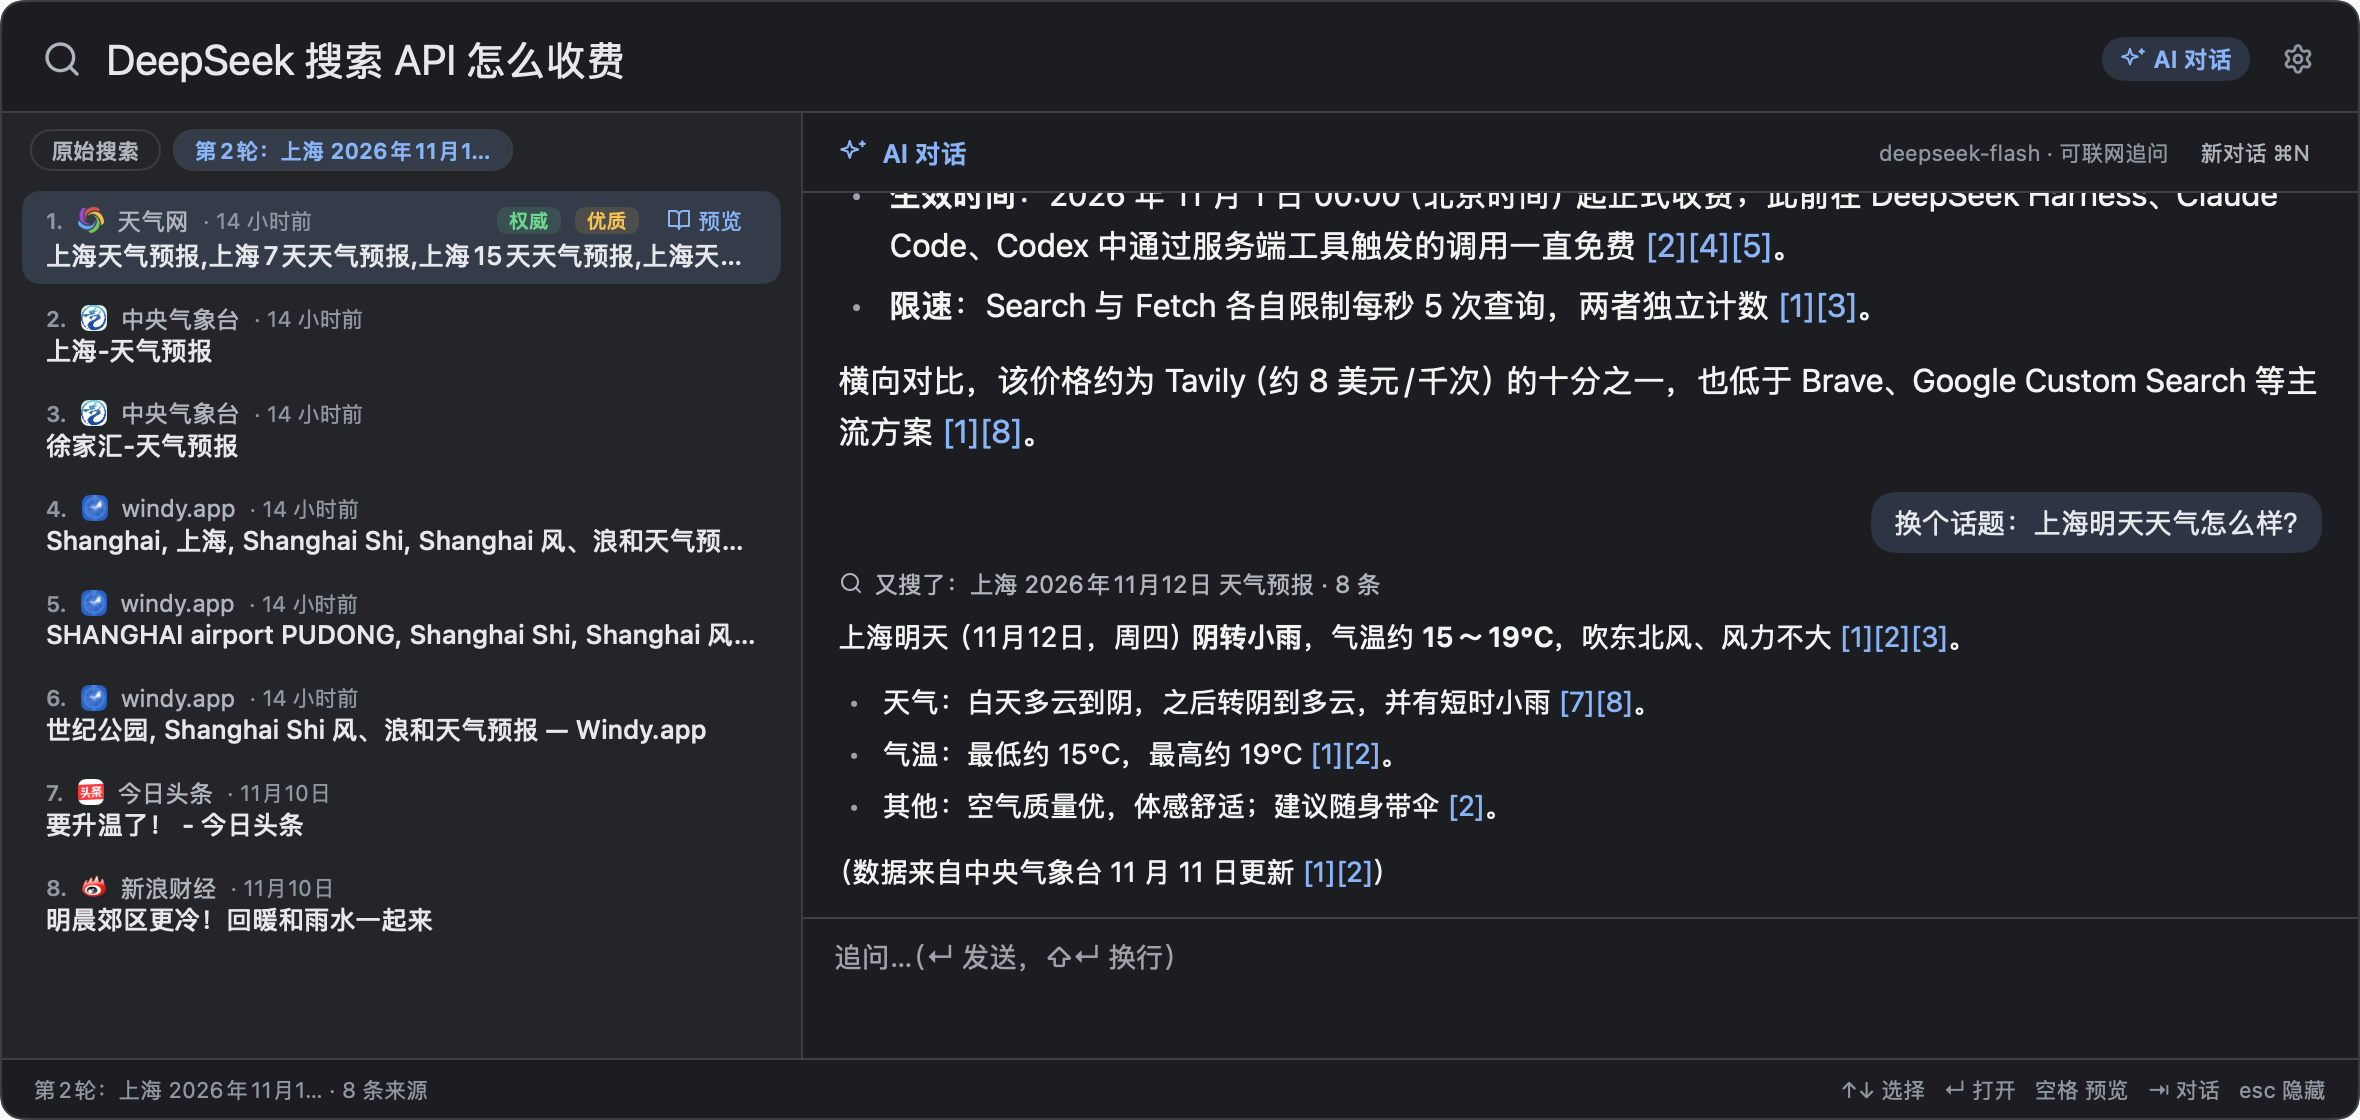
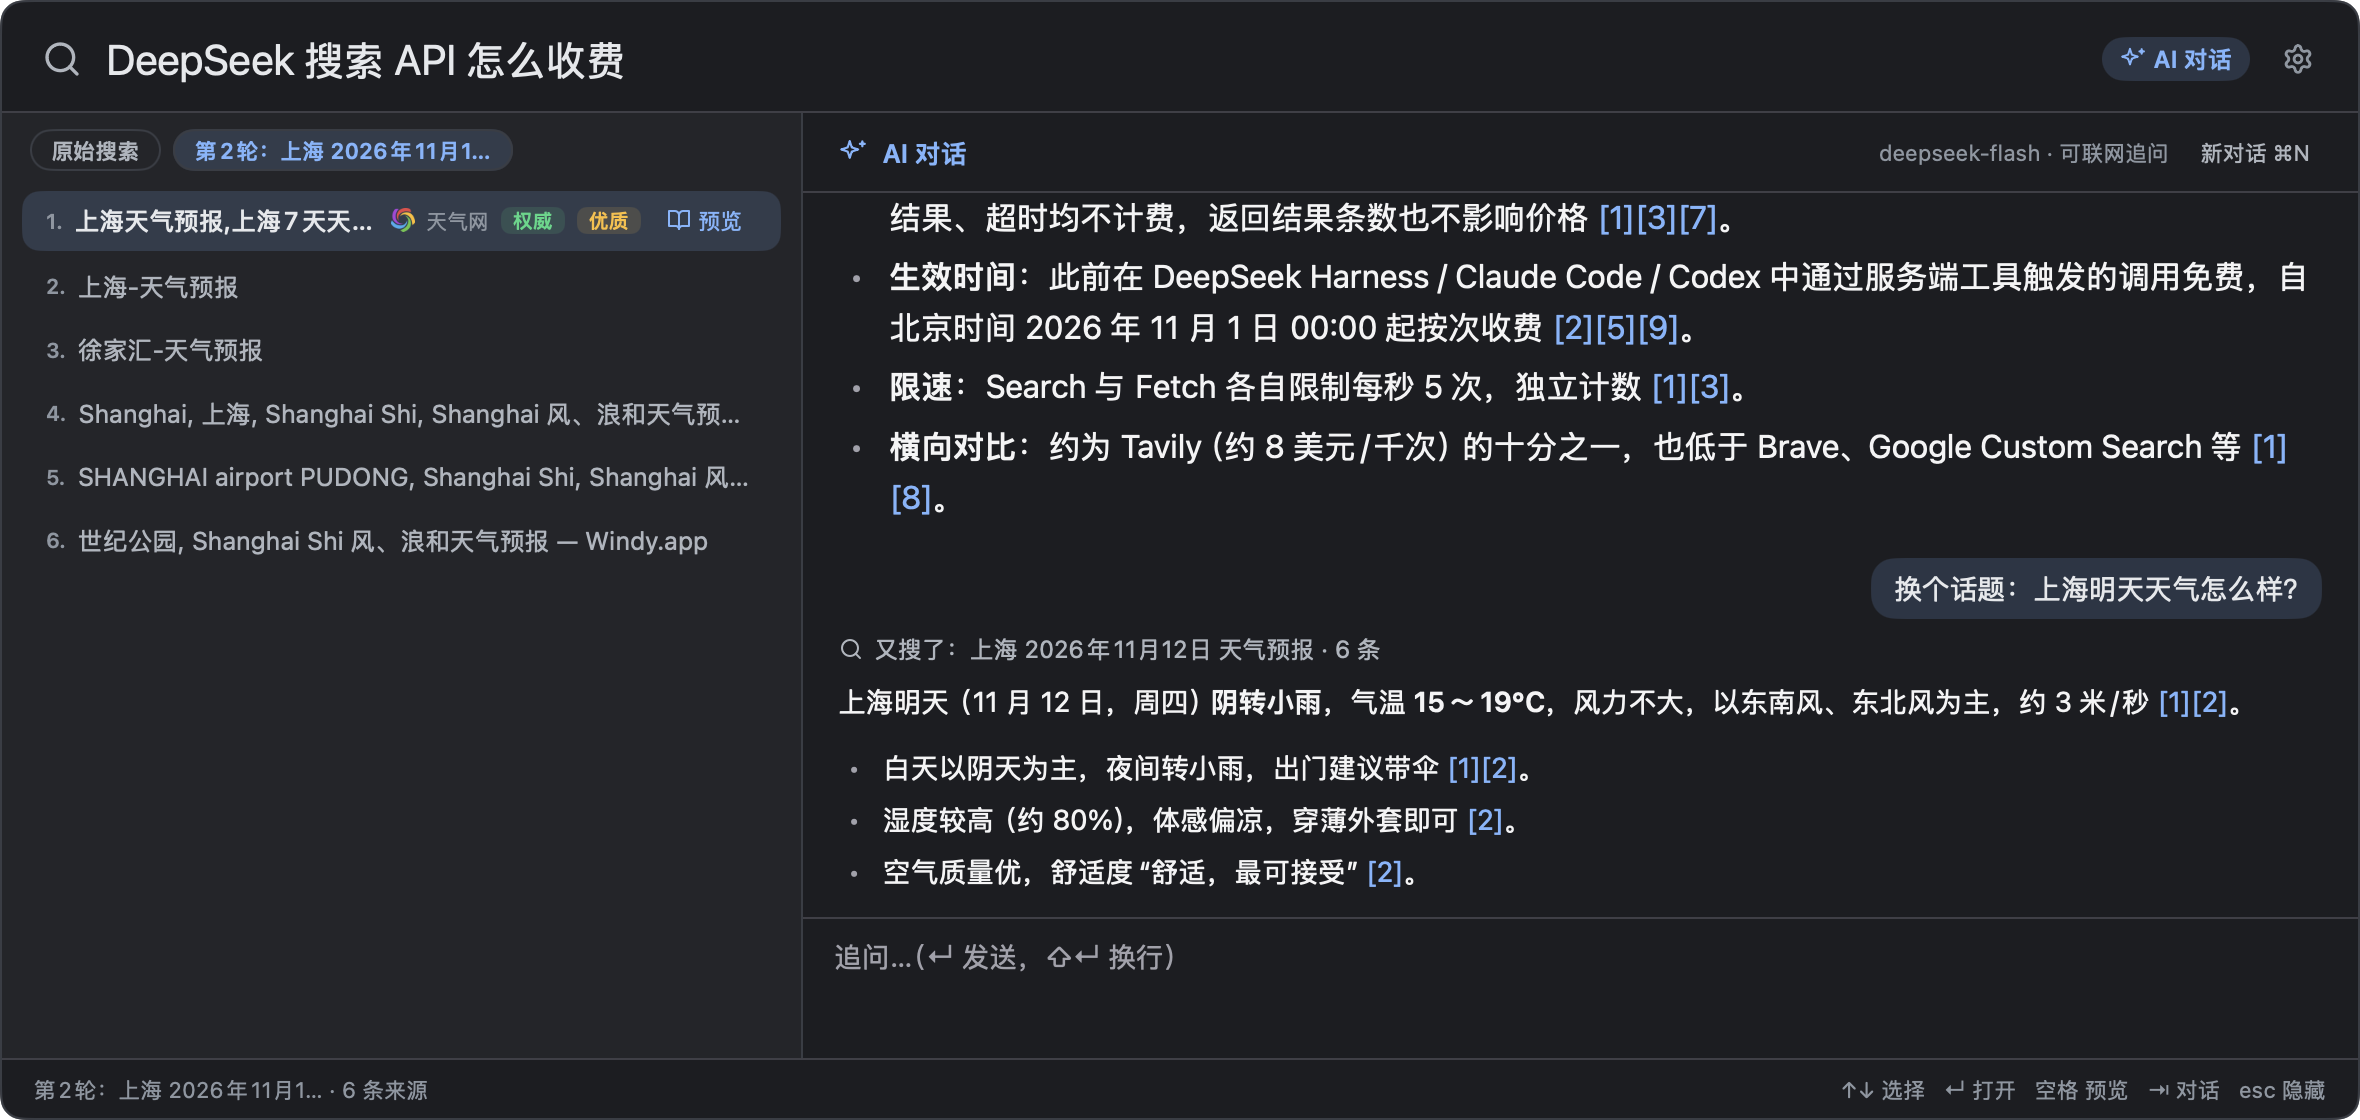
Quiet the sources: one grey line each, their detail only for the row being read

diff --git a/view.go b/view.go
@@ -295,9 +295,12 @@ func (a *app) aiChip(c *ui.Context, k ink) {
 
 // row is a result: the site and its date, the title, the snippet.
 //
-// Beside the summary (dense) a result is a source: numbered like the [n]
-// the answer cites, one line of title, one of site, no snippet. With the
-// conversation closed the list is all there is, and the rows breathe.
+// Beside the summary (dense) a result is a source, and a source is
+// evidence: its number matches the [n] the answer cites, and it is one
+// quiet line of text. The site, its date and the quality badges come up
+// only for the row being read, so ten sources stay lighter than the
+// answer above them. With the conversation closed the list is all there
+// is, and the rows breathe again.
 func (a *app) row(c *ui.Context, k ink, i int) {
 	r := a.results[i]
 	dense := a.cfg.AI
@@ -317,6 +320,8 @@ func (a *app) row(c *ui.Context, k ink, i int) {
 	if hover && i != a.chosen {
 		row.Background(k.hover)
 	}
+	// The row being read is the one that shows where it came from.
+	lead := !dense || i == a.chosen || hover
 	row.OnClick(func() {
 		if a.chosen == i {
 			a.openURL(r.URL)
@@ -325,62 +330,74 @@ func (a *app) row(c *ui.Context, k ink, i int) {
 		}
 	})
 	row.Children(func() {
+		if dense {
+			a.sourceRow(c, k, r, i, lead)
+			return
+		}
 		ui.Row(c).Gap(7).AlignItems(ui.Center).Children(func() {
-			if dense {
-				// Its number, so the row and the answer's [n] are one thing.
-				ui.Text(c, fmt.Sprintf("%d.", i+1)).FontSize(11).FontWeight(600).TextColor(k.faint)
-			}
 			site := siteName(r)
 			if b := a.icon(r.SiteIcon); b != nil {
-				size := float32(16)
-				if dense {
-					size = 13 // a source line: the icon supports it, it does not lead it
-				}
-				ui.Image(c, b).Size(size, size).Radius(4)
+				ui.Image(c, b).Size(16, 16).Radius(4)
 			} else {
-				size := float32(16)
-				if dense {
-					size = 13
-				}
-				ui.Avatar(c, site, nil).Size(size, size).FontSize(9)
+				ui.Avatar(c, site, nil).Size(16, 16).FontSize(9)
 			}
 			ui.Text(c, site).FontSize(12).TextColor(k.muted).SingleLine().Shrink(1)
-			if !dense {
-				ui.Text(c, host(r.URL)).FontSize(11).TextColor(k.faint).SingleLine().Shrink(2)
-			}
+			ui.Text(c, host(r.URL)).FontSize(11).TextColor(k.faint).SingleLine().Shrink(2)
 			if d := when(r, time.Now()); d != "" {
 				ui.Text(c, "· "+d).FontSize(11).TextColor(k.faint).SingleLine()
 			}
 			ui.Spacer(c)
-			// Beside the summary only the row being read says what it is
-			// worth: ten colored badges would outshout the answer.
-			if !dense || i == a.chosen || hover {
-				if r.Authoritative() {
-					badge(c, "权威", k.green)
-				}
-				if r.Good() {
-					badge(c, "优质", k.gold)
-				}
-			}
-			if i == a.chosen {
-				ui.Row(c.Key("read")).Gap(4).Padding(2, 7).Radius(6).AlignItems(ui.Center).Cursor(ui.CursorPointer).
-					Tooltip("预览  空格").Label("预览").OnClick(a.read).Children(func() {
-					ui.Icon(c, iconBook).FontSize(12).TextColor(k.link)
-					ui.Text(c, "预览").FontSize(11).TextColor(k.link)
-				})
-			}
+			a.rowMarks(c, k, r, i)
 		})
-		// A result is a link, so its title is blue. A source is evidence
-		// for the answer above it, so its title is plain ink, smaller.
-		size, col, weight := float32(16), k.link, 500
-		if dense {
-			size, col, weight = 13, k.text, 450
-		}
-		ui.Text(c, oneLine(r.Title)).FontSize(size).FontWeight(weight).TextColor(col).MaxLines(1)
-		if r.Snippet != "" && !dense {
+		ui.Text(c, oneLine(r.Title)).FontSize(16).FontWeight(500).TextColor(k.link).MaxLines(1)
+		if r.Snippet != "" {
 			ui.Text(c, oneLine(r.Snippet)).FontSize(13).LineHeight(1.45).TextColor(k.muted).MaxLines(2)
 		}
 	})
+}
+
+// sourceRow is a source in the sidebar: its number, one line of title, and
+// for the row being read where it came from. Grey and small on purpose: the
+// answer is what the panel is for.
+func (a *app) sourceRow(c *ui.Context, k ink, r dsapi.Result, i int, lead bool) {
+	line := ui.Row(c).Gap(6).AlignItems(ui.Center)
+	line.Children(func() {
+		// Its number, so the row and the answer's [n] are one thing.
+		ui.Text(c, fmt.Sprintf("%d.", i+1)).FontSize(10.5).FontWeight(600).TextColor(k.faint)
+		col, weight := k.muted, 400
+		if i == a.chosen {
+			col, weight = k.text, 500
+		}
+		ui.Text(c, oneLine(r.Title)).FontSize(12.5).FontWeight(weight).TextColor(col).SingleLine().Grow(1).Shrink(1)
+		if lead {
+			site := siteName(r)
+			if b := a.icon(r.SiteIcon); b != nil {
+				ui.Image(c, b).Size(12, 12).Radius(3)
+			} else {
+				ui.Avatar(c, site, nil).Size(12, 12).FontSize(8)
+			}
+			ui.Text(c, site).FontSize(10.5).TextColor(k.faint).SingleLine().Shrink(1)
+			a.rowMarks(c, k, r, i)
+		}
+	})
+}
+
+// rowMarks is what a row can say about itself once it is being read: how
+// good the search thinks it is, and how to read all of it.
+func (a *app) rowMarks(c *ui.Context, k ink, r dsapi.Result, i int) {
+	if r.Authoritative() {
+		badge(c, "权威", k.green)
+	}
+	if r.Good() {
+		badge(c, "优质", k.gold)
+	}
+	if i == a.chosen {
+		ui.Row(c.Key("read")).Gap(4).Padding(2, 7).Radius(6).AlignItems(ui.Center).Cursor(ui.CursorPointer).
+			Tooltip("预览  空格").Label("预览").OnClick(a.read).Children(func() {
+			ui.Icon(c, iconBook).FontSize(12).TextColor(k.link)
+			ui.Text(c, "预览").FontSize(11).TextColor(k.link)
+		})
+	}
 }
 
 func badge(c *ui.Context, text string, col ui.Color) {

diff --git a/README.md b/README.md
@@ -97,7 +97,8 @@ DS 搜索不提供任何服务端，所有请求都用你自己的 DeepSeek API 
 
 - 搜索语法原样传给 DeepSeek：`site:github.com`、`-site:x.com`、`"精确短语"`、`-广告`、`lang:zh,en`、`after:2026-01-01`、`before:2026`。
 - 无限滚动：第一次搜索只取 10 条（快）；滚到离底部约 150px，或用 ↓ 选到倒数第 2 条时，用同一个搜索词再请求一次 50 条（DeepSeek 搜索没有 offset 参数，最多 50 条），按 URL 去重后追加到下面，滚动位置和选中项不变。加载时底部显示「加载中…」，加载完显示「已显示全部 N 条」；失败显示「加载失败，↵ 重试」。每个搜索词最多多请求这一次。
-- 结果显示：站点图标、站点名、日期（北京时间）、标题、「优质 / 权威」标记（`rerank_score ≥ 1.5` 标「优质」，`authority ≥ 3` 标「权威」）；选中那条出现「预览」（空格读全文）。AI 栏展开时来源是一行一条：行首编号与总结里的 [n] 一一对应，标题用正文字色（不是链接蓝）不加粗，不显示域名和摘要，「优质 / 权威」只在光标停在该行时出现；关掉 AI 栏时是完整行（蓝色标题 + 域名 + 两行摘要 + 常显标记）。
+- 结果显示（AI 栏关闭时）：站点图标、站点名、域名、日期（北京时间）、蓝色标题、两行摘要、「优质 / 权威」标记（`rerank_score ≥ 1.5` 标「优质」，`authority ≥ 3` 标「权威」）；选中那条出现「预览」（空格读全文）。
+- 结果显示（AI 栏展开时）：来源压成一行灰字，行首编号与总结里的 [n] 一一对应，12.5px、次要字色、不加粗，没有域名和摘要；站点图标、站点名与「优质 / 权威」标记只在正在读的那条（↑↓ 选中或鼠标悬停）出现。整个来源栏因此轻于右侧的总结。
 - 两种布局：默认两栏（约 1180 px，居中，小屏自动收窄），右边是 ✨ AI 总结（正文 16px，是面板的视觉主体），左边是带编号的来源，做成浅色侧栏（默认 400 px，最宽 460 px，保证总结不被挤掉）。按 ⇧⇥ 收起 AI 栏，面板回到单栏（约 720 px），只剩结果（蓝色标题 + 摘要的完整行）；再按 ⇧⇥、按 ⇥ 或设置 › 通用 的「搜索后自动 AI 总结」可展开。展开状态与拖动比例会记住。
 - AI 总结：第一条回答是对前 10 条结果中 rerank_score 最高者的总结，带 [n] 角标；来源行前的编号与 [n] 一一对应。之后可以在右下角追问（多轮，deepseek-flash 非思考模式，流式）。
 - 费用：关闭「搜索后自动 AI 总结」后，搜索不会调用 Chat API，只有按 ⇥ 展开时才总结，不会白花钱。
